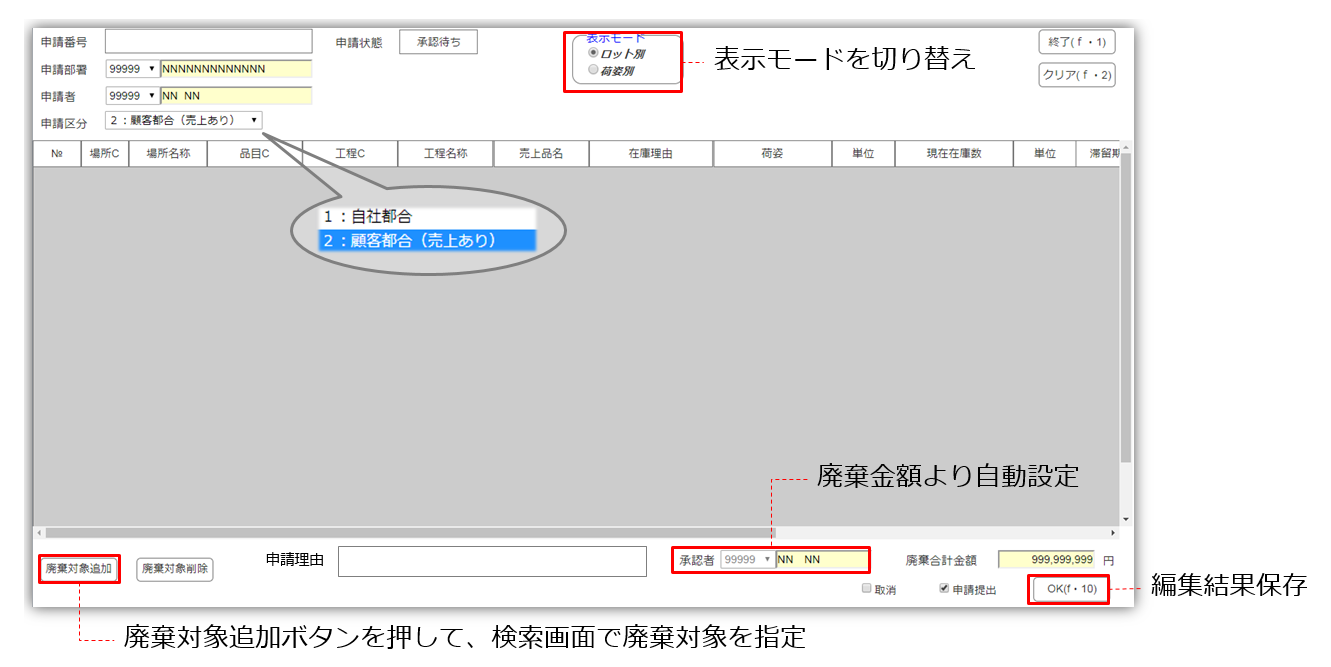
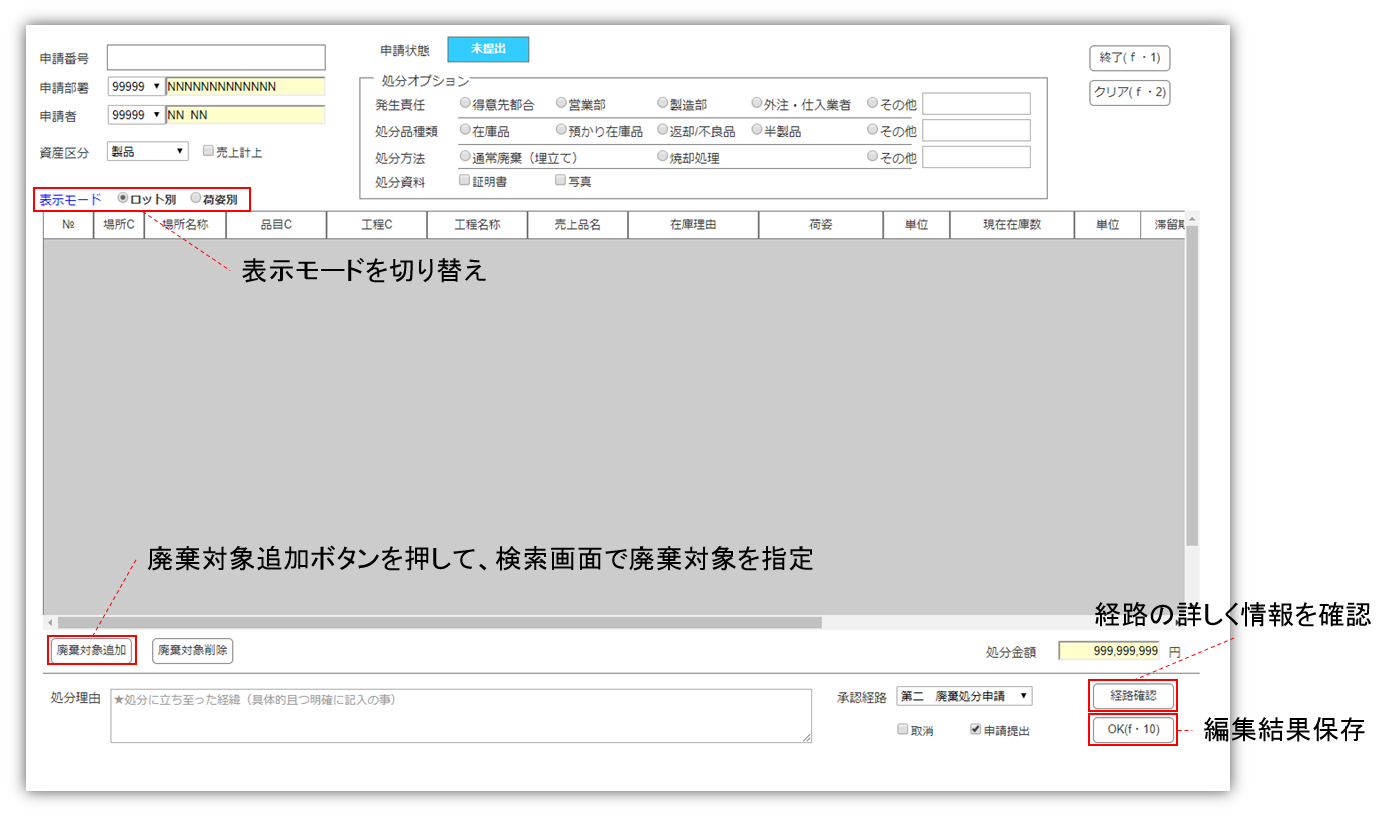
[change]画面修正
生産管理より、既存な廃棄処分申請書より、設計修正しました。

Changed region(s): [[0.0, 0.0, 0.9857, 0.9895], [0.0924, 0.6597, 0.5853, 0.7196]]

diff --git a/廃棄申請処理.md b/廃棄申請処理.md
@@ -1,3 +1,11 @@
+---
+title: "廃棄申請処理説明資料"
+author: Tony Wang
+date: Nov. 21, 2017
+output: pdf_document
+version: 1.0.0
+---
+
 # 廃棄申請処理説明資料
 
 パッケージ事業部より、電脳工場で伊藤園向け請求書を作成するように希望がありました。
@@ -23,47 +31,8 @@
 申請人が廃棄申請を作成して提出します。
 申請人が営業担当だけではなく、生産管理の方も申請できます。
 
-また、廃棄申請には申請区分、廃棄対象、申請理由、合計金額も記入する必要となります。
+また、廃棄申請には処分関連区分設定、売上計上区分、廃棄対象、処分理由など記入する必要となります。
 そして、承認経路の指定も必要となります。
-
-**<u>処分発生責任</u>**
-得意先都合、営業部、製造部、外注・仕入業者、その他という区分です。
-お客さまより、廃棄するなら、売上計上を行います。（金額が調整する可能性もあります）
-その他を選んだ場合、手入力で説明文言を設定できます。
-
-**<u>売上計上区分</u>**
-するの場合、売上計上を行います。
-しない場合、売上計上を行わないです。
-
-**<u>合計金額</u>**
-廃棄品の合計金額を自動計算し、表示します。
-この金額より、承認者の権限を判断します。
-承認者の権限を越える場合、申請を出せず、アラートを表示します。
-
-例えば、合計金額が100万円以上の場合、直接社長のほうに稟議書を提出する旨のメッセージを表示します。
-
-**<u>承認経路</u>**
-承認経路には承認者、決裁者、確認者がいます。
-* 承認者が申請人の上長です。
-申請内容をチェックし、OKなら承認します。
-* 決裁者が最終決定を作る人です。
-* 確認者は関連の通知先です。
-
-例えば、パッケージ事業部なら、廃棄申請ですが、直接、決裁者とする鈴木事業部長に提出します。
-
-**<u>資産区分</u>**
-製品、中間品という棚卸資産区分です。
-
-**<u>処理品区分</u>**
-在庫品、預かり在庫品、返却/不良品、半製品、その他という区分です。
-その他を選んだ場合、手入力で説明文言を設定できます。
-
-**<u>処分方法</u>**
-通常廃棄（埋立て）、焼却処理、その他という区分です。
-その他を選んだ場合、手入力で説明文言を設定できます。
-
-**<u>処分資料</u>**
-証明書、写真が要るかどうかの区分です。
 
 ### 廃棄承認
 承認者が処理必要な申請を検索し、詳細情報を確認した上で、承認します。
@@ -125,7 +94,9 @@
 * 廃棄担当者向け、廃棄実績入力画面
 
 **<u>申請作成画面</u>**
+
 ![申請作成画面](/images/廃棄申請作成.png)
+
 * ログイン情報より申請部署と申請者を設定しております。申請状態が空白です。
 申請者の手動で申請区分を設定します。
 
@@ -137,6 +108,8 @@
 
 * 明細部に表示する廃棄対象のコストを合計し、画面の右下に表示します。
 
+* 明細部の表示モードを切り替え設定できます。
+
 * 申請を提出する前に、必ず承認経路を指定します。
 承認経路が別のマスタ画面で設定しております。
 この場面には、適用な承認経路を指定することができます。
@@ -144,8 +117,55 @@
 
 * 申請を提出する際に、合計金額を判断し、決裁者の承認権限を越えれば、
 メッセージを表示してから、処理中止にされます。
-
 例えば、合計金額が100万円以上の場合、直接社長のほうに稟議書を提出する旨のメッセージです。
+
+**<u>処分発生責任</u>**
+得意先都合、営業部、製造部、外注・仕入業者、その他という区分です。
+お客さまより、廃棄するなら、売上計上を行います。（金額が調整する可能性もあります）
+その他を選んだ場合、手入力で説明文言を設定できます。
+
+**<u>売上計上区分</u>**
+するの場合、売上計上を行います。
+しない場合、売上計上を行わないです。
+
+**<u>合計金額</u>**
+廃棄品の合計金額を自動計算し、表示します。
+この金額より、承認者の権限を判断します。
+承認者の権限を越える場合、申請を出せず、アラートを表示します。
+
+例えば、合計金額が100万円以上の場合、直接社長のほうに稟議書を提出する旨のメッセージを表示します。
+
+**<u>承認経路</u>**
+承認経路には承認者、決裁者、確認者がいます。
+* 承認者が申請人の上長です。
+申請内容をチェックし、OKなら承認します。
+* 決裁者が最終決定を作る人です。
+* 確認者は関連の通知先です。
+
+例えば、パッケージ事業部なら、廃棄申請ですが、直接、決裁者とする鈴木事業部長に提出します。
+
+この画面でログインユーザーの部署、画面IDより、適用できる経路だけリストに表示します。
+
+**<u>資産区分</u>**
+製品、中間品という棚卸資産区分です。
+
+>**棚卸資産**：将来、販売または一般管理活動を行うために保有している資産。 商品や製品、仕掛品、半製品、原材料、消耗品などがこれにあたる。
+
+**<u>処分品区分</u>**
+在庫品、預かり在庫品、返却/不良品、半製品、その他という区分です。
+その他を選んだ場合、手入力で説明文言を設定できます。
+
+**<u>処分方法</u>**
+通常廃棄（埋立て）、焼却処理、その他という区分です。
+その他を選んだ場合、手入力で説明文言を設定できます。
+
+**<u>処分資料</u>**
+証明書、写真が要るかどうかの区分です。
+処分資料が廃棄実績入力際に添付します。
+
+**<u>処分理由</u>**
+Hintで下記のメッセージを提示します。
+「★処分に立ち至った経緯（具体的且つ明確に記入の事）」
 
 **<u>申請一覧画面</u>**
 ![廃棄申請承認](/images/廃棄申請承認.png)
@@ -191,7 +211,7 @@
 
 * 生産管理の方が確認しOKならば、「送信」ボタンを押して、担当者へ通知メールを送信します。
 
-* 廃棄申請と廃棄指示が１：ｎの関係と想定します。（？？？）
+* 廃棄申請と廃棄指示が１：１の関係と想定します。
 *
 **<u>廃棄指示一覧画面</u>**
 ![廃棄指示一覧](/images/廃棄指示一覧.png)
@@ -199,7 +219,7 @@
 その画面で廃棄指示の状態を確認できます。
 ダブルクリック或いは「OK」ボタンを押したら、その指示の詳細情報を参照できます。
 
-廃棄していない場合、また変更できます。（？？？）
+※廃棄していない場合、また変更できます。変更なら、再送信します。
 
 **<u>廃棄実績入力画面</u>**
 ![廃棄実績入力](/images/廃棄実績入力.png)
@@ -209,4 +229,6 @@
 
 廃棄指示と廃棄実績が１：ｎの関係と想定します。
 
-処分資料が必須なら、添付します。
+処分資料が必須なら、この画面で添付します。
+（チェックがあります。資料の種類が限定したら、精度的にチェックできます。
+例えば、証明書が必ずPDF、Excel、Wordファイルです。）
